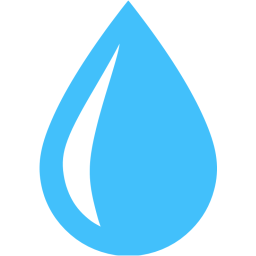
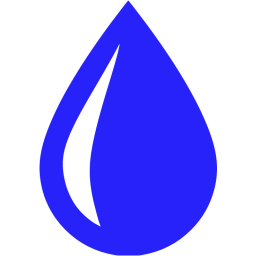
Changer les icones de couleurs

diff --git a/OE_objetsJoueur.py b/OE_objetsJoueur.py
@@ -310,14 +310,15 @@ class Joueur():
         print("id systeme " + idSysteme)
         print("id planete " + idPlanete)
         for i in self.systemesvisites:
-            print("i.id " + i.id)
             if i.id==idSysteme:
                 for p in i.planetes:
-                    print("p.id " + p.id)
                     if idPlanete==p.id:
-                        self.ressources.additionnerRessources(p.dicRessourceParJoueur[self.nom])
-                        print("ressources collectées")
-                        p.ressource = Ressource()
+                        if self.nom in p.dicRessourceParJoueur:
+                            self.ressources.additionnerRessources(p.dicRessourceParJoueur[self.nom])
+                            print("ressources collectées")
+                            p.dicRessourceParJoueur[self.nom] = Ressource()
+                        else:
+                            print("Pas Votre planet, stop... please...")
                         return
         
                                
